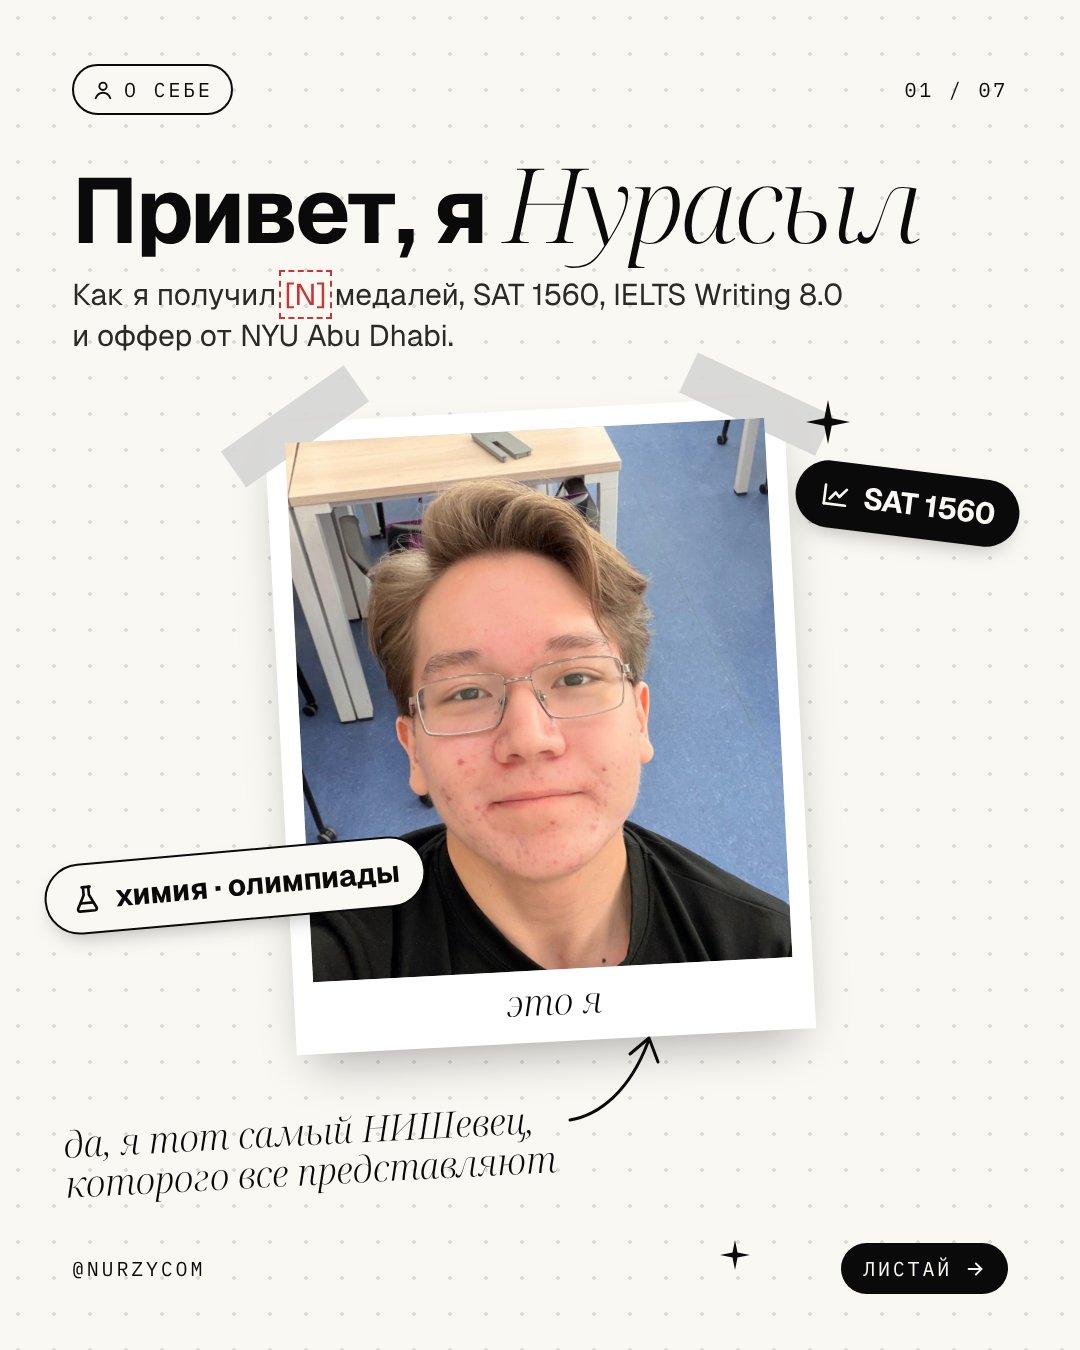
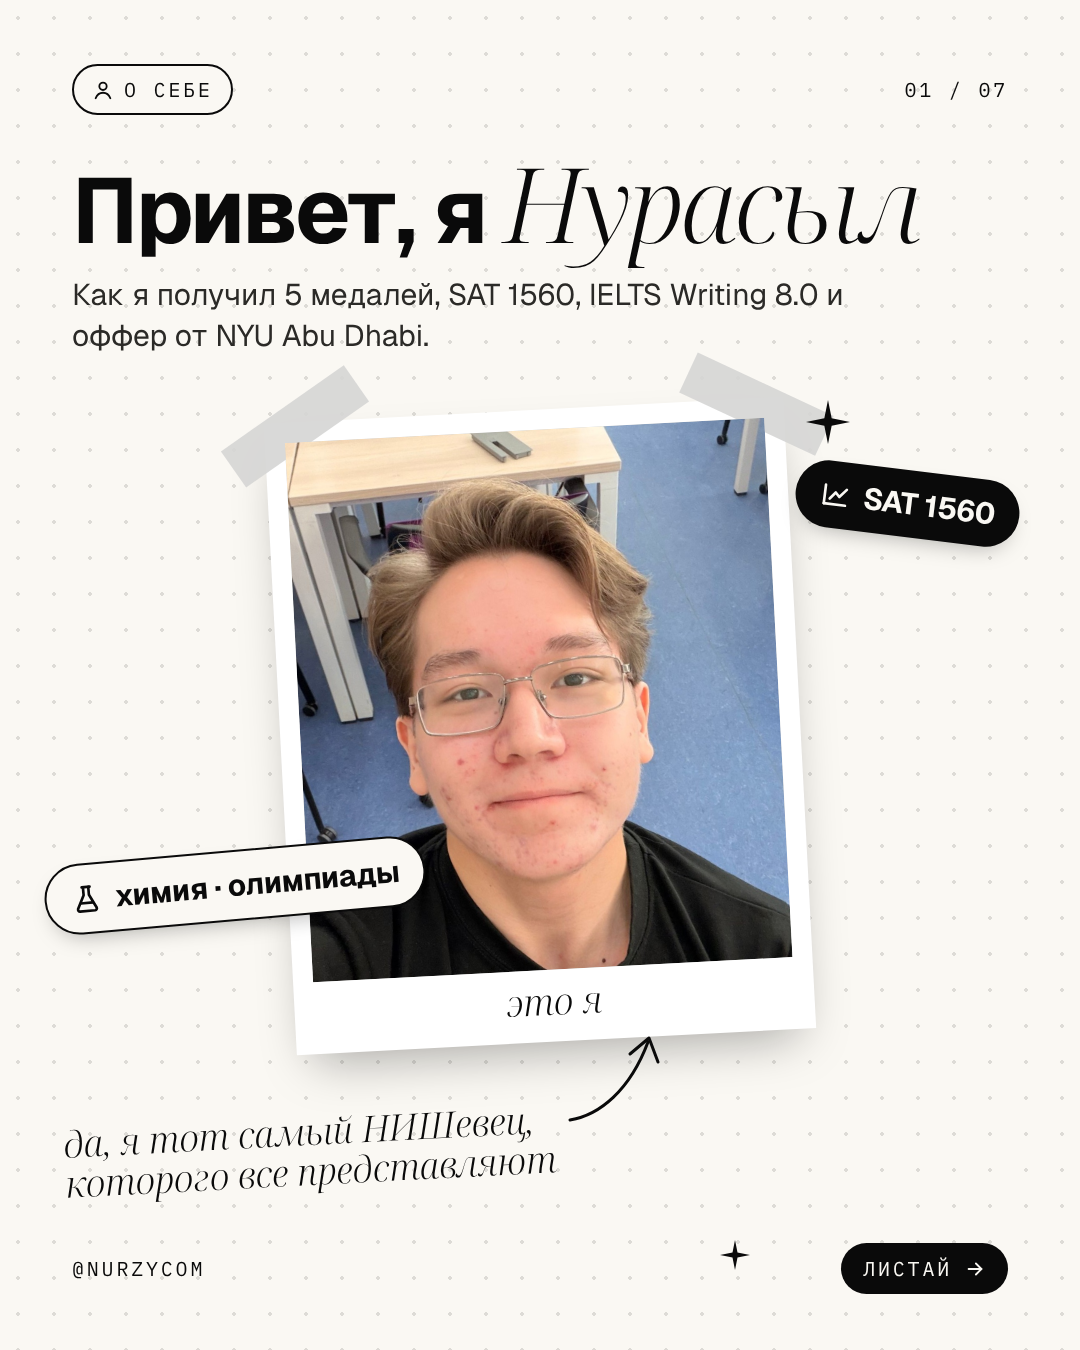
Story slide 1: 5 medals, verified from Common App; record credentials
Claude-Session: https://claude.ai/code/session_01EUKBNPzc7y2DXSfnei23HU

Changed region(s): [[0.1833, 0.1867, 0.7333, 0.28], [0.0611, 0.2178, 0.1528, 0.28], [0.7639, 0.2178, 0.7944, 0.2489]]

diff --git a/social/story/slide-01.html b/social/story/slide-01.html
@@ -69,7 +69,7 @@
   </div>
 
   <h1>Привет, я <em>Нурасыл</em></h1>
-  <p class="sub">Как я получил <span class="todo">[N]</span> медалей, SAT&nbsp;1560, IELTS Writing&nbsp;8.0 и оффер от NYU&nbsp;Abu&nbsp;Dhabi.</p>
+  <p class="sub">Как я получил 5 медалей, SAT&nbsp;1560, IELTS Writing&nbsp;8.0 и оффер от NYU&nbsp;Abu&nbsp;Dhabi.</p>
 
   <div class="polaroid">
     <span class="tape a"></span><span class="tape b"></span>

diff --git a/CLAUDE.md b/CLAUDE.md
@@ -18,6 +18,8 @@ You are continuing work on the personal brand and tutoring business of Nurassyl 
 - SAT 1560 superscore; IELTS 8.0 overall, 8.0 Writing
 - Perfect 5.0/5.0 GPA every term for six years at NIS
 - Chemistry olympiads: 2023 national gold and gold at the International Tuymaada Olympiad; 2024 national silver (top 6) and Tuymaada bronze
+- Silver medal, Republican Science Project Competition, 2023 (grade 9). Total medals verified from his Common App: **5** (national chemistry gold and silver, Tuymaada gold and bronze, science projects silver). His Common App lists Tuymaada bronze as "medals"; if that is more than one, confirm before publishing a higher count.
+- SAT 1560 is a superscore: Reading & Writing 760 (May 2025) + Math 800 (Dec 2025). IELTS 8.0 (Jan 2025): L 8, R 8.5, W 8, S 7.
 - Admitted to NYU Abu Dhabi (formal offer), chose NU
 - A student he tutored finished Organic Chemistry I at UC San Diego Extended Studies with a 92.4% final grade (publish unnamed, as a result only)
 
